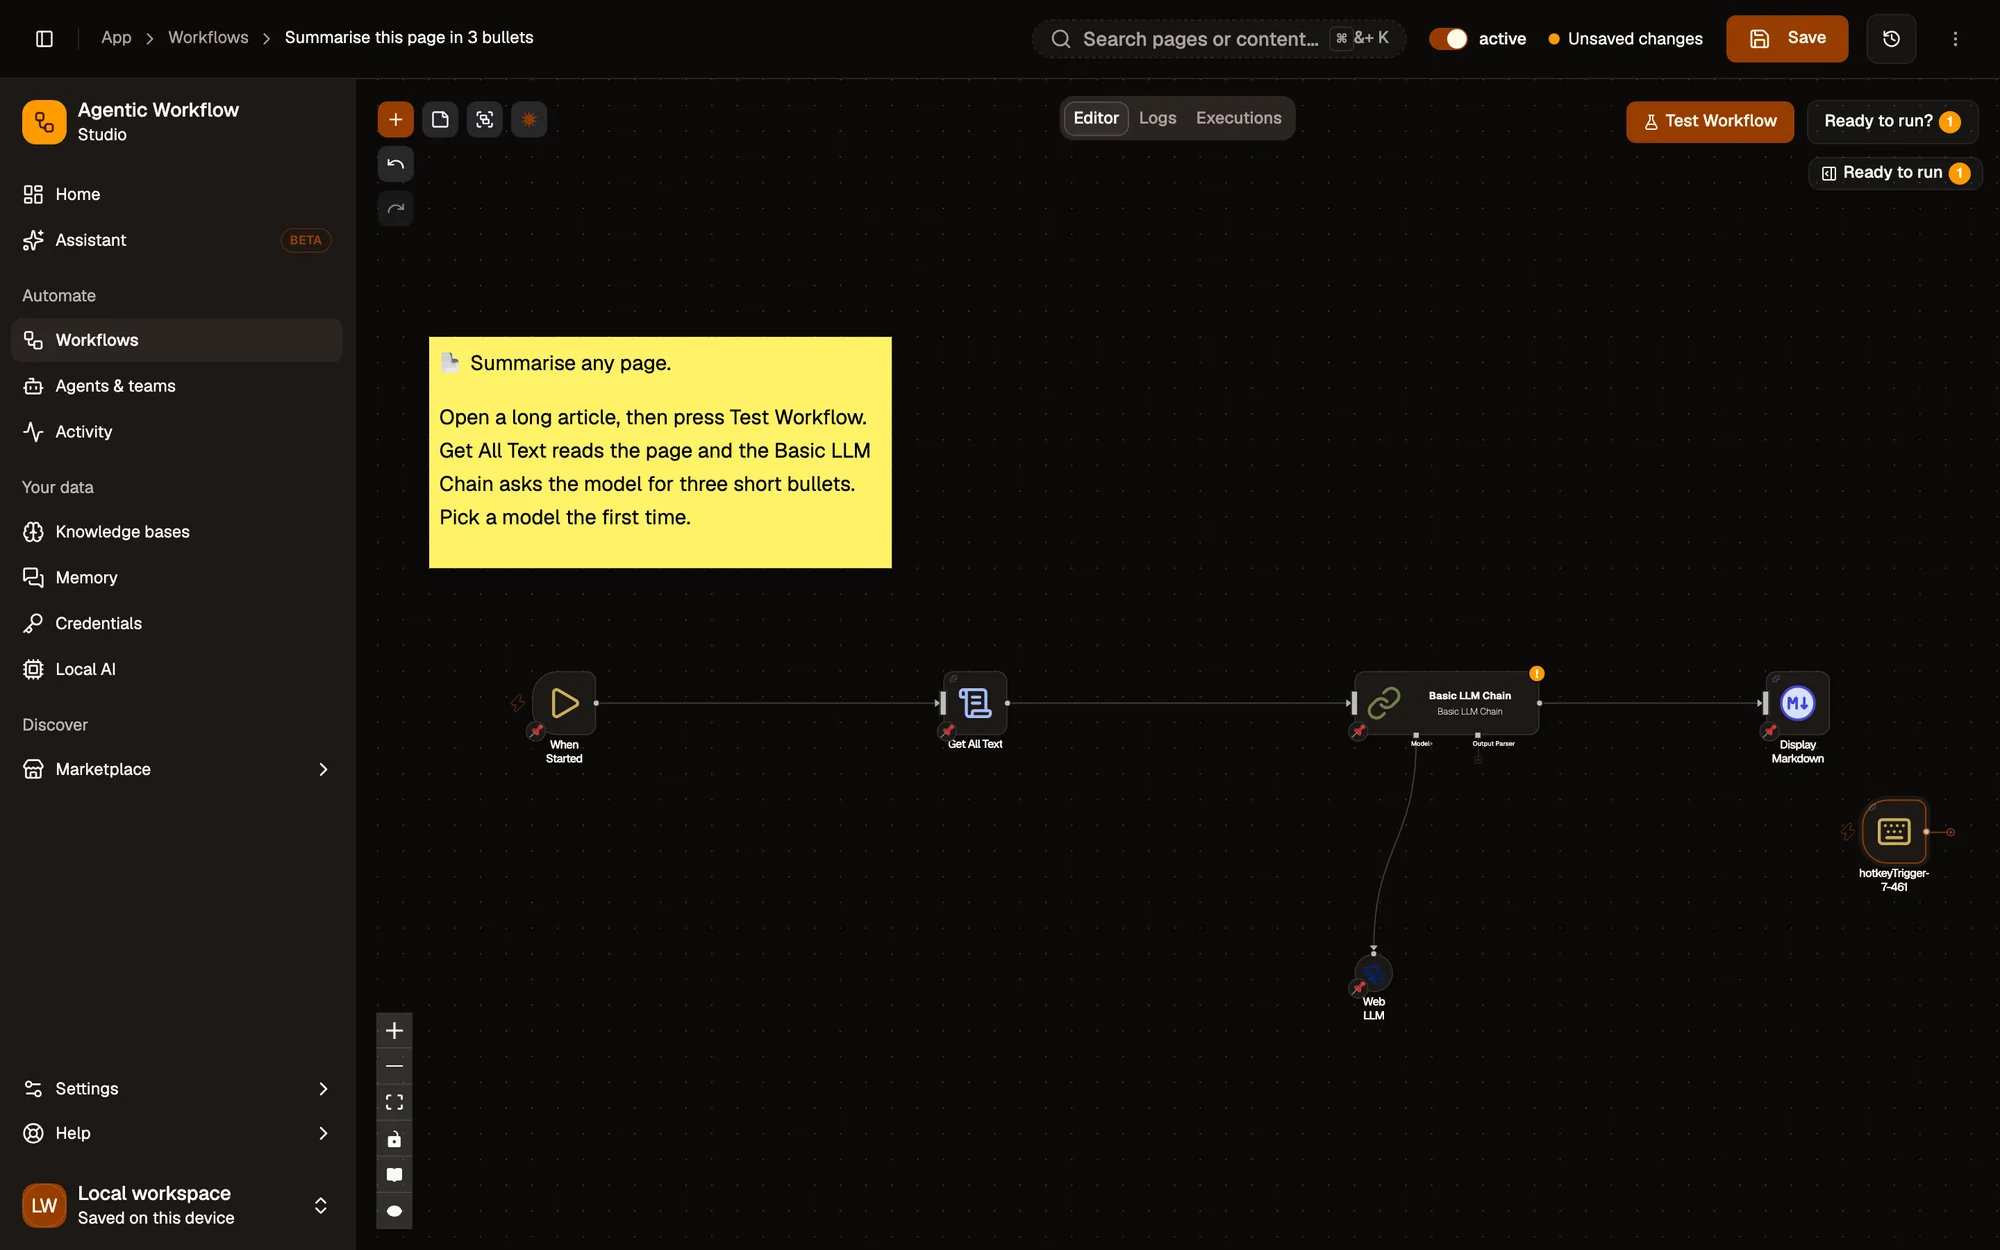
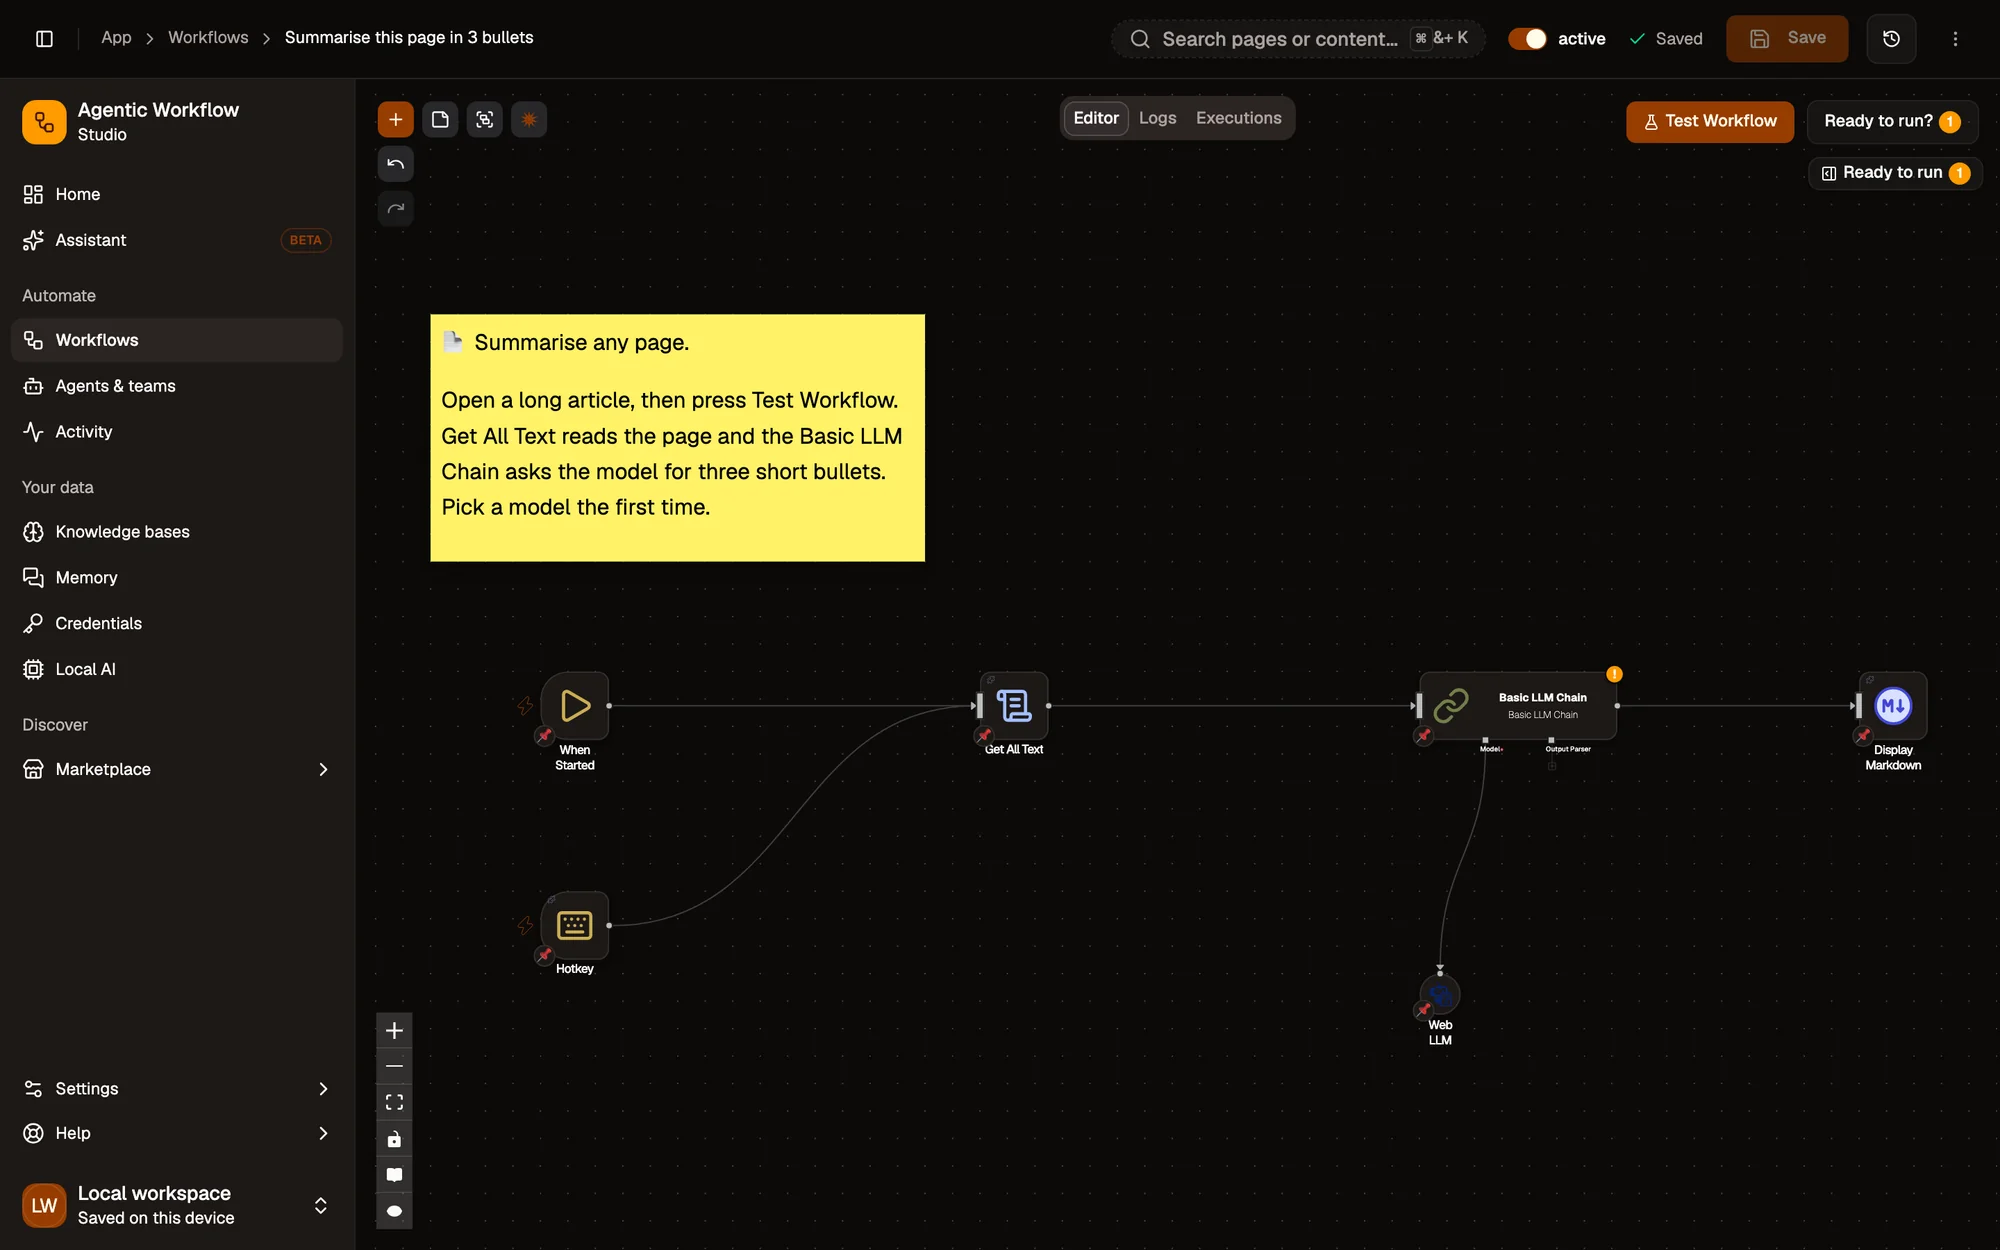
docs(capture): gs-activate shows the Hotkey trigger linked to Get All Text
Import a capture fixture (summarize-page-hotkey.awf: the lesson 3 workflow
plus a Hotkey trigger wired into Get All Text) instead of reusing the
canvas where the trigger was dropped unlinked, and drop the "not linked
yet" caveat from the alt text. Spot ids are unchanged.

Claude-Session: https://claude.ai/code/session_015iw4GFupAwgX9VUgwz71FE

diff --git a/scripts/capture/shots/get-started.ts b/scripts/capture/shots/get-started.ts
@@ -335,14 +335,14 @@ export const shots: ShotDef[] = [
 		name: 'gs-activate',
 		page: 'get-started/first-automation',
 		route: '#/app/workflows/<id>',
-		alt: 'The Summarise this page in 3 bullets workflow after adding a Hotkey trigger (on the right, not linked yet). The header shows the Workflow active switch reading active, Unsaved changes and the Save button.',
+		alt: 'The Summarise this page in 3 bullets workflow with its Hotkey trigger added: Hotkey sits under When Started and both lines lead into Get All Text, then Basic LLM Chain (with Web LLM under it) and Display Markdown. The header shows the Workflow active switch reading active, Saved and the Save button.',
 		css: NO_MINIMAP,
 		spots: [
 			{ id: 'save', label: 'Save', locator: (p) => p.getByRole('banner').getByRole('button', { name: 'Save', exact: true }) },
 			{ id: 'active-switch', label: 'The active switch next to the workflow’s name', locator: (p) => p.getByRole('switch', { name: 'Workflow active' }) }
 		],
 		prepare: async (s) => {
-			await s.editor('summarize-page-llm-chain');
+			await s.editor('summarize-page-hotkey');
 			await closePanels(s.page);
 			await tidyCanvas(s.page);
 		}
